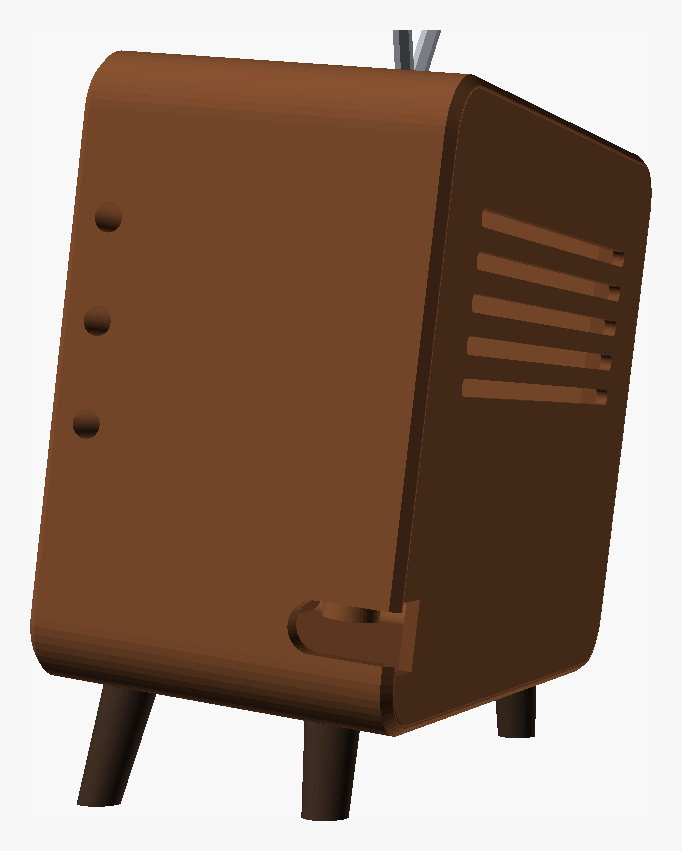
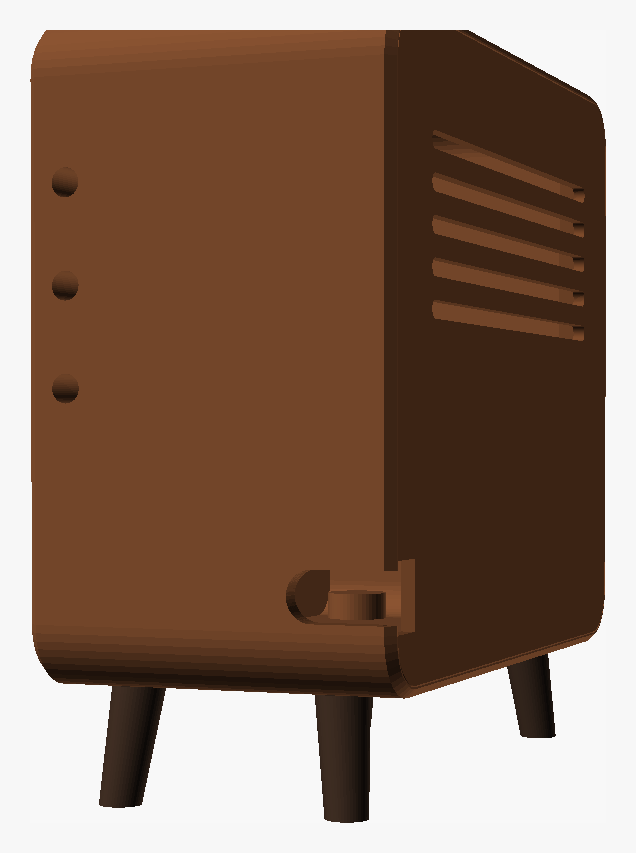
Retro-TV dock: stand upright, more room for the L-plug
Tilt 0 (all legs equal). plug_room 14 -> 18 mm so an ordinary L-shaped
USB-C plug fits under the board with its cable heading back. README now
states the real outer size and adds a dims part that echoes it.

Claude-Session: https://claude.ai/code/session_01DCgFXNHjuUnVVy5jf825vG

diff --git a/enclosure/retro_tv/README.md b/enclosure/retro_tv/README.md
@@ -2,10 +2,14 @@
 
 A small 60s-style television for the Clawdmeter. The screen sits on the
 left behind a rounded TV window. On the right is a control panel with two
-knobs and a speaker grille. Splayed legs (the rear ones are shorter) lean
-the screen back 7°, and there are rabbit-ear antennas on top. The
-right-angle USB-C plug stays hidden inside, and the cable leaves through a
-notch low on the right side near the back.
+knobs and a speaker grille. It stands upright on four splayed legs, with
+rabbit-ear antennas on top. The right-angle USB-C plug stays hidden under
+the board with its cable heading back. Inside, the cable curves right and
+leaves through a notch low on the right side near the back.
+
+Size: 85 × 73 × 42 mm body. With legs it stands about 86 mm tall, or about
+120 mm to the antenna tips. Run `openscad -D 'part="dims"' -o x.stl retro_tv.scad`
+to print the numbers after you change parameters.
 
 | Front | Right side (buttons + cable exit) |
 |---|---|
@@ -40,7 +44,7 @@ All STLs come out already in print orientation:
 | `faceplate` | cream | Glue it into the front recess. This gives the two-tone look without a multi-colour printer. |
 | `back_cover` | walnut | Friction fit, with vents in the upper half. |
 | `knobs` | dark brown | Decorative, pinned with a 6 mm stub of 1.75 mm filament. |
-| `legs` | dark brown | 4 legs: the front pair is longer, which sets the tilt. Press-fit or glue. |
+| `legs` | dark brown | 4 legs, all the same length at `tilt = 0`. Press-fit or glue. |
 | `antenna` | grey | Dome + 2 rods. 2 mm metal rod or a bamboo skewer looks better than printed rods. |
 | `plungers` | any | One per side button. The long ones go through the right control panel. |
 
@@ -53,10 +57,13 @@ cream and dark-brown PLA all exist, so no painting is needed.
 2. Drop the plungers into the side holes from the inside.
 3. Push the board in from the back, glass first, until it snaps past the four
    clip posts.
-4. Plug in the right-angle USB-C. A sideways (left/right) elbow works best,
-   but a back-facing elbow fits too. Route the cable right, then back, and
-   out through the notch.
+4. Plug in the right-angle USB-C with the cable pointing toward the back of
+   the case. Ordinary L-shaped cables bend over the plug's flat side, so this
+   is the direction you get. Run the cable back, curve it right, and lay it
+   into the notch. `plug_room` (18 mm) is the space under the board. Measure
+   your plug from the metal tip to the far side of the plastic head, and raise
+   it if the head is longer than about 15 mm.
 5. Press the back cover on, then press in the legs and the antenna dome.
 
-The 7° tilt is set by `tilt` (and `leg_len`). The IMU auto-rotation still
-reads the screen as upright.
+`tilt` (default 0) shortens the rear legs to lean the screen back if you
+want that later.
